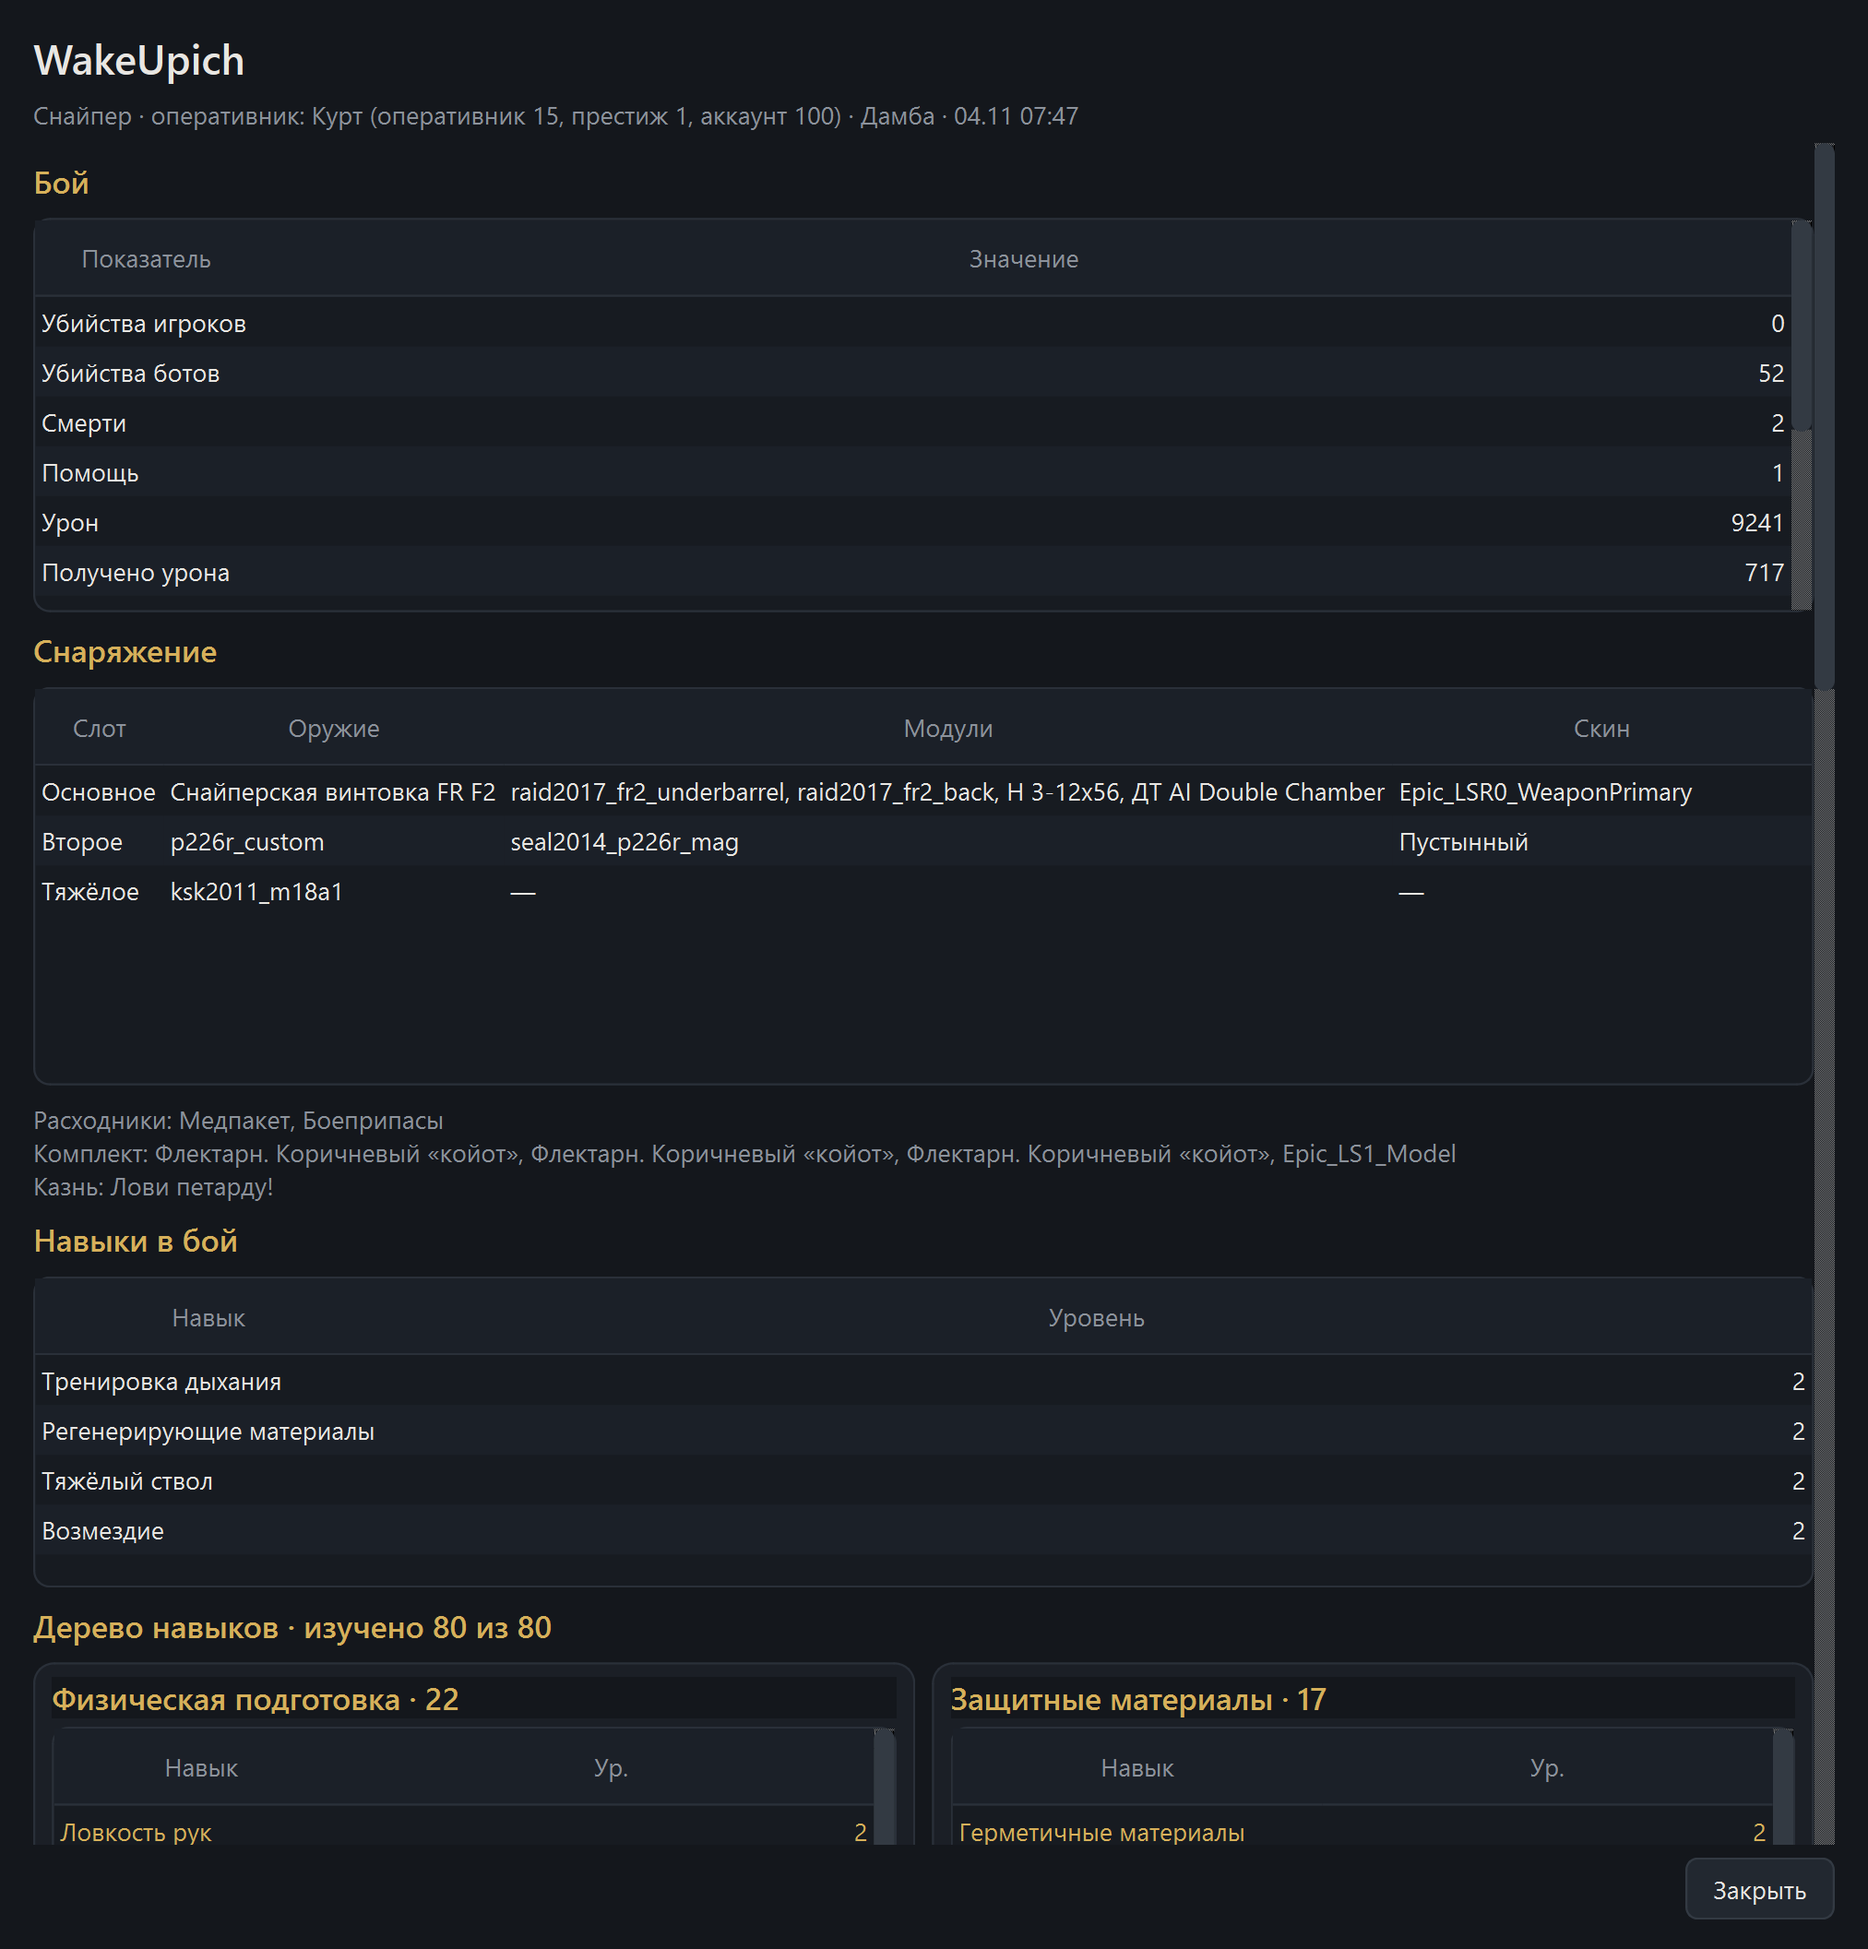
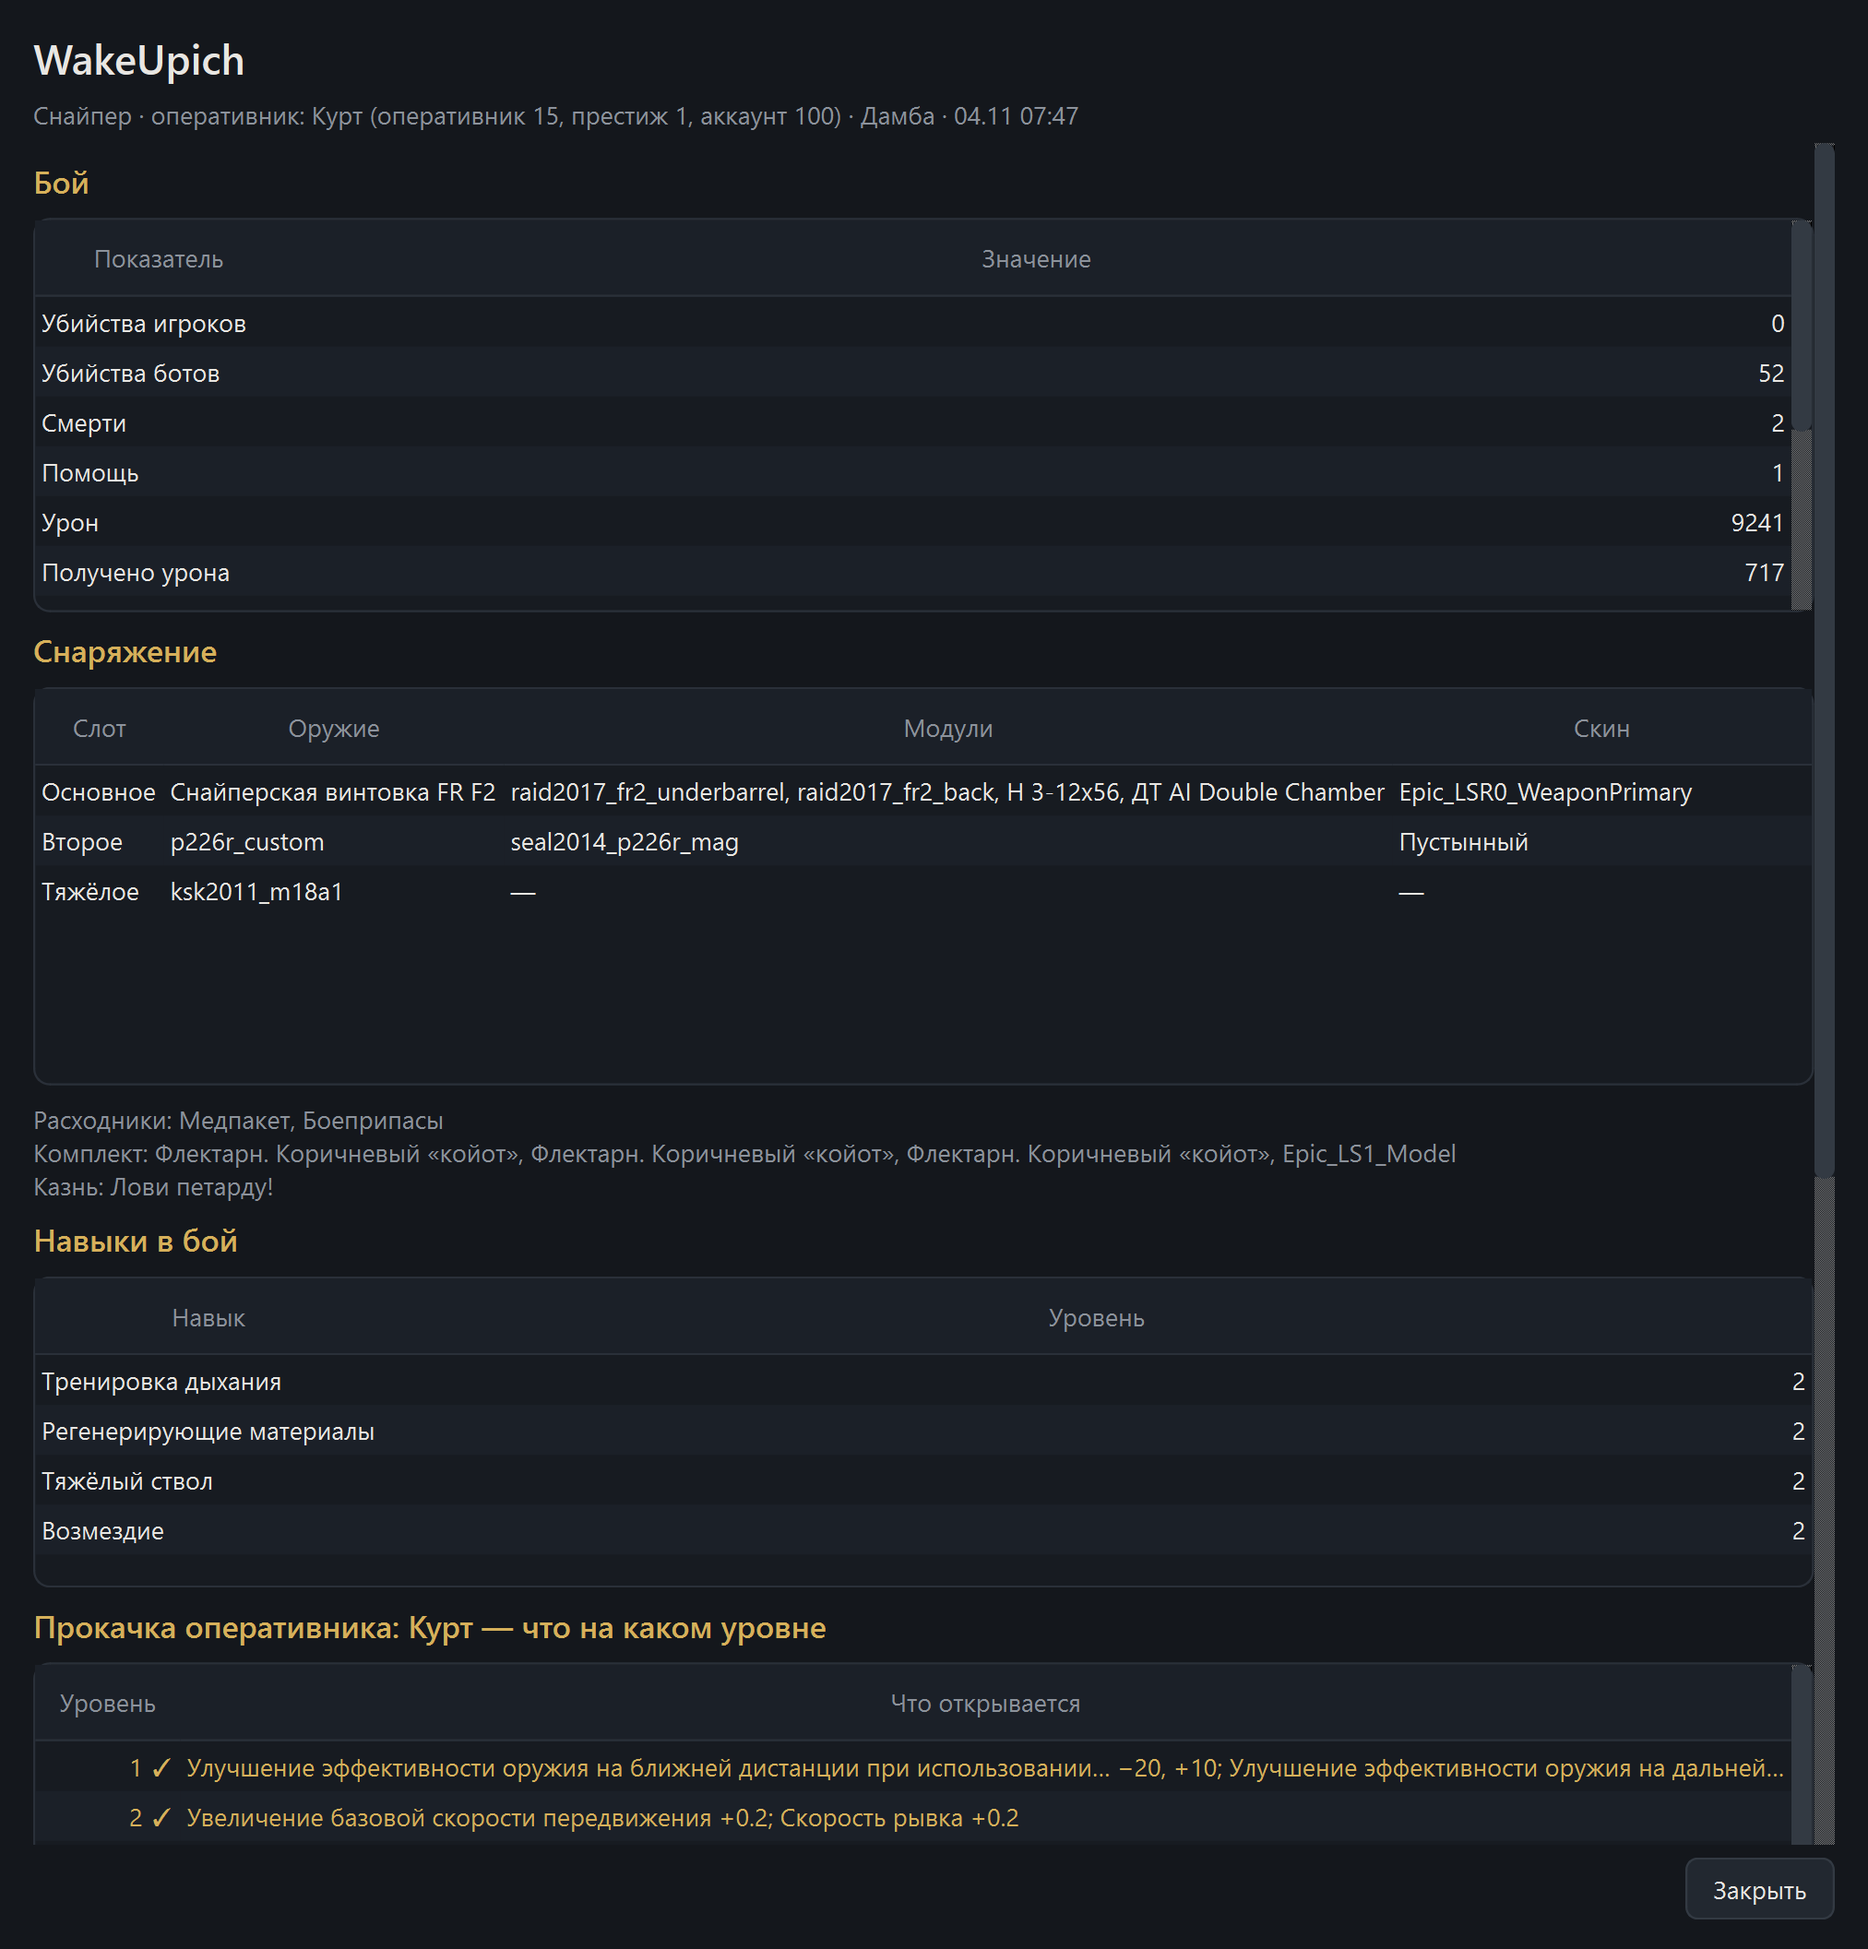
Карточка: только выбранные в бой навыки; в составе боя попадания в голову с долей и в тело; версия 0.1.1

diff --git a/gui.py b/gui.py
@@ -14,13 +14,13 @@ import os
 import sys
 
 from PySide6.QtCore import Qt, QTimer
-from PySide6.QtGui import QColor, QFont, QIcon, QPainter, QPen, QPixmap
+from PySide6.QtGui import QColor, QIcon, QPainter, QPen, QPixmap
 from PySide6.QtWidgets import (
     QAbstractItemView, QApplication, QCheckBox, QComboBox, QDialog, QFileDialog,
     QFormLayout, QFrame, QGridLayout, QHBoxLayout, QHeaderView, QLabel, QLineEdit,
     QMainWindow, QMessageBox, QProgressDialog, QPushButton, QScrollArea,
-    QSizePolicy, QSplitter, QTableWidget, QTableWidgetItem, QTabWidget,
-    QTextEdit, QVBoxLayout, QWidget,
+    QSplitter, QTableWidget, QTableWidgetItem, QTabWidget,
+    QVBoxLayout, QWidget,
 )
 
 sys.path.insert(0, os.path.dirname(os.path.abspath(__file__)))
@@ -278,8 +278,6 @@ class PlayerCardDialog(QDialog):
         layout.addWidget(section_title("Бой"))
         stats = make_table(["Показатель", "Значение"])
         stats.setMaximumHeight(190)
-        hits = (player.get("headshots") or 0) + (player.get("body_hits") or 0)
-        accuracy = f"{100 * (player.get('headshots') or 0) / hits:.0f}%" if hits else "—"
         fill_table(stats, [
             ["Убийства игроков", player.get("kills") or 0],
             ["Убийства ботов", player.get("bot_kills") or 0],
@@ -289,8 +287,9 @@ class PlayerCardDialog(QDialog):
             ["Получено урона", int(player.get("damage_received") or 0)],
             ["Лечение", int(player.get("heal") or 0)],
             ["Оживления", player.get("revives") or 0],
-            ["Головы / тело", f"{player.get('headshots') or 0} / {player.get('body_hits') or 0}"],
-            ["Точность в голову", accuracy],
+            ["Попаданий в голову", head_cell(player.get("headshots"),
+                                             player.get("body_hits"))],
+            ["Попаданий в тело", int(player.get("body_hits") or 0)],
             ["Вышел из боя", "да" if player.get("first_leave") else "нет"],
         ], right=(1,))
         layout.addWidget(stats)
@@ -344,46 +343,6 @@ class PlayerCardDialog(QDialog):
             layout.addWidget(table)
         else:
             layout.addWidget(self._note("навыки не сохранились (нет реплея)"))
-
-        # -- дерево навыков -----------------------------------------------
-        branches = refs().perk_branches()
-        if branches and levels:
-            total = sum(len(nodes) for _name, nodes in branches)
-            learned = sum(1 for value in levels.values() if value)
-            layout.addWidget(section_title(
-                f"Дерево навыков · изучено {learned} из {total}"))
-            grid = QGridLayout()
-            grid.setSpacing(8)
-            for index, (line_name, nodes) in enumerate(branches):
-                box = QFrame()
-                box.setObjectName("card")
-                box.setSizePolicy(QSizePolicy.Preferred, QSizePolicy.Maximum)
-                box_layout = QVBoxLayout(box)
-                box_layout.setContentsMargins(8, 6, 8, 6)
-                box_layout.setSpacing(4)
-                title = QLabel(f"{line_name} · {len(nodes)}")
-                title.setObjectName("h2")
-                box_layout.addWidget(title)
-                table = make_table(["Навык", "Ур."])
-                table.verticalHeader().setDefaultSectionSize(20)
-                fill_table(table, [[refs().item(node["tech"]),
-                                    levels.get(node["tech"]) or "—"]
-                                   for node in nodes], right=(1,))
-                for row, node in enumerate(nodes):
-                    level = levels.get(node["tech"]) or 0
-                    item = table.item(row, 0)
-                    if item:
-                        item.setForeground(QColor(ACCENT if level else DIM))
-                        if node.get("descr"):
-                            item.setToolTip(node["descr"])
-                    mark = table.item(row, 1)
-                    if mark:
-                        mark.setForeground(QColor(ACCENT if level else DIM))
-                table.setFixedHeight(20 * len(nodes) + 46)
-                box_layout.addWidget(table)
-                box_layout.addStretch(1)
-                grid.addWidget(box, index // 2, index % 2, Qt.AlignTop)
-            layout.addLayout(grid)
 
         # -- дерево прокачки оперативника ---------------------------------
         code = player.get("operator_code")
@@ -462,6 +421,17 @@ class PlayerCardDialog(QDialog):
         """Прокрутить карточку вниз (для снимков и проверок)."""
         bar = self.scroll.verticalScrollBar()
         bar.setValue(bar.maximum())
+
+
+def head_cell(head, body) -> str:
+    """Попадания в голову и их доля: «809 (18,8%)» — как в исходном хабе."""
+    head = int(head or 0)
+    body = int(body or 0)
+    total = head + body
+    if not total:
+        return "—"
+    share = 100.0 * head / total
+    return f"{head} ({share:.1f}%)".replace(".", ",")
 
 
 def replay_slot_title(slot: str) -> str:
@@ -647,7 +617,7 @@ class Hub(QMainWindow):
         bottom_layout.addWidget(section_title("Состав боя"))
         self.roster_table = make_table(
             ["Роль", "Ник", "Оперативник", "Опер.", "Прест.", "Акк.", "Убийств",
-             "Ботов", "Смертей", "Помощь", "Урон", "Головы", "Снаряжение"])
+             "Ботов", "Смертей", "Помощь", "Урон", "Головы", "Тело", "Снаряжение"])
         self.roster_table.doubleClicked.connect(self._open_player_card)
         bottom_layout.addWidget(self.roster_table)
         splitter.addWidget(bottom)
@@ -909,8 +879,6 @@ class Hub(QMainWindow):
 
         rows = []
         for player in players:
-            hits = (player["headshots"] or 0) + (player["body_hits"] or 0)
-            head = f"{100 * (player['headshots'] or 0) / hits:.0f}%" if hits else "—"
             rows.append([
                 role_title(player["role"]), player["nick"] or "—",
                 refs().operator(player.get("operator_code")),
@@ -918,10 +886,13 @@ class Hub(QMainWindow):
                 player.get("prestige") or "—",
                 player.get("account_level") or "—",
                 player["kills"] or 0, player["bot_kills"] or 0, player["deaths"] or 0,
-                player["assists"] or 0, int(player["damage_dealt"] or 0), head,
+                player["assists"] or 0, int(player["damage_dealt"] or 0),
+                head_cell(player["headshots"], player["body_hits"]),
+                int(player["body_hits"] or 0),
                 "есть" if player["has_loadout"] else "—",
             ])
-        fill_table(self.roster_table, rows, right=(3, 4, 5, 6, 7, 8, 9, 10, 11))
+        fill_table(self.roster_table, rows,
+                   right=(3, 4, 5, 6, 7, 8, 9, 10, 11, 12))
 
     def _open_match_from_last(self, index) -> None:
         row = index.row()

diff --git a/tools/make_anon_db.py b/tools/make_anon_db.py
@@ -1,0 +1,64 @@
+# -*- coding: utf-8 -*-
+"""Обезличенная копия базы для скриншотов и публикации.
+
+Ники других игроков заменяются на «Игрок NN», свой аккаунт остаётся как есть.
+Скриншоты тогда можно показывать людям, не выставляя напоказ чужой состав.
+
+    python tools/make_anon_db.py                       # в temp, рядом с базой
+    python tools/make_anon_db.py --out D:\\anon.db
+"""
+from __future__ import annotations
+
+import argparse
+import os
+import shutil
+import sqlite3
+import sys
+
+sys.path.insert(0, os.path.dirname(os.path.dirname(os.path.abspath(__file__))))
+import caliber_db as db   # noqa: E402
+import paths              # noqa: E402
+
+
+def anonymize(src: str, dst: str) -> dict:
+    for suffix in ("", "-wal", "-shm"):
+        if os.path.exists(src + suffix):
+            shutil.copy2(src + suffix, dst + suffix)
+    con = sqlite3.connect(dst)
+    con.row_factory = sqlite3.Row
+    row = con.execute("SELECT my_uid FROM matches WHERE my_uid IS NOT NULL LIMIT 1").fetchone()
+    my_uid = row[0] if row else None
+    uids = [r[0] for r in con.execute(
+        "SELECT DISTINCT uid FROM match_players WHERE uid IS NOT NULL AND uid<>?",
+        (my_uid,))]
+    alias = {uid: f"Игрок {index + 1:02d}" for index, uid in enumerate(uids)}
+    for table in ("match_players", "match_loadout", "nicknames"):
+        try:
+            con.executemany(f"UPDATE {table} SET nick=? WHERE uid=?",
+                            [(name, uid) for uid, name in alias.items()])
+        except sqlite3.Error:
+            continue
+    if my_uid is not None:
+        con.execute("DELETE FROM accounts WHERE uid<>?", (my_uid,))
+    con.commit()
+    con.close()
+    return {"my_uid": my_uid, "renamed": len(alias)}
+
+
+def main() -> int:
+    ap = argparse.ArgumentParser(description="Обезличенная копия базы CaliberStat")
+    ap.add_argument("--out", default=os.path.join(os.environ.get("TEMP", "."),
+                                                  "caliberstat_anon.db"))
+    args = ap.parse_args()
+    src = str(paths.db_path())
+    if not os.path.exists(src):
+        print(f"[!] нет базы: {src}")
+        return 1
+    info = anonymize(src, args.out)
+    print(f"[*] копия: {args.out}")
+    print(f"[*] мой uid: {info['my_uid']}, переименовано игроков: {info['renamed']}")
+    return 0
+
+
+if __name__ == "__main__":
+    raise SystemExit(main())

diff --git a/paths.py b/paths.py
@@ -17,7 +17,7 @@ import sys
 from pathlib import Path
 
 APP_TITLE = "CaliberStat"
-VERSION = "0.1.0"
+VERSION = "0.1.1"
 
 SETTINGS_NAME = "settings.json"
 DB_NAME = "caliberstat.db"
